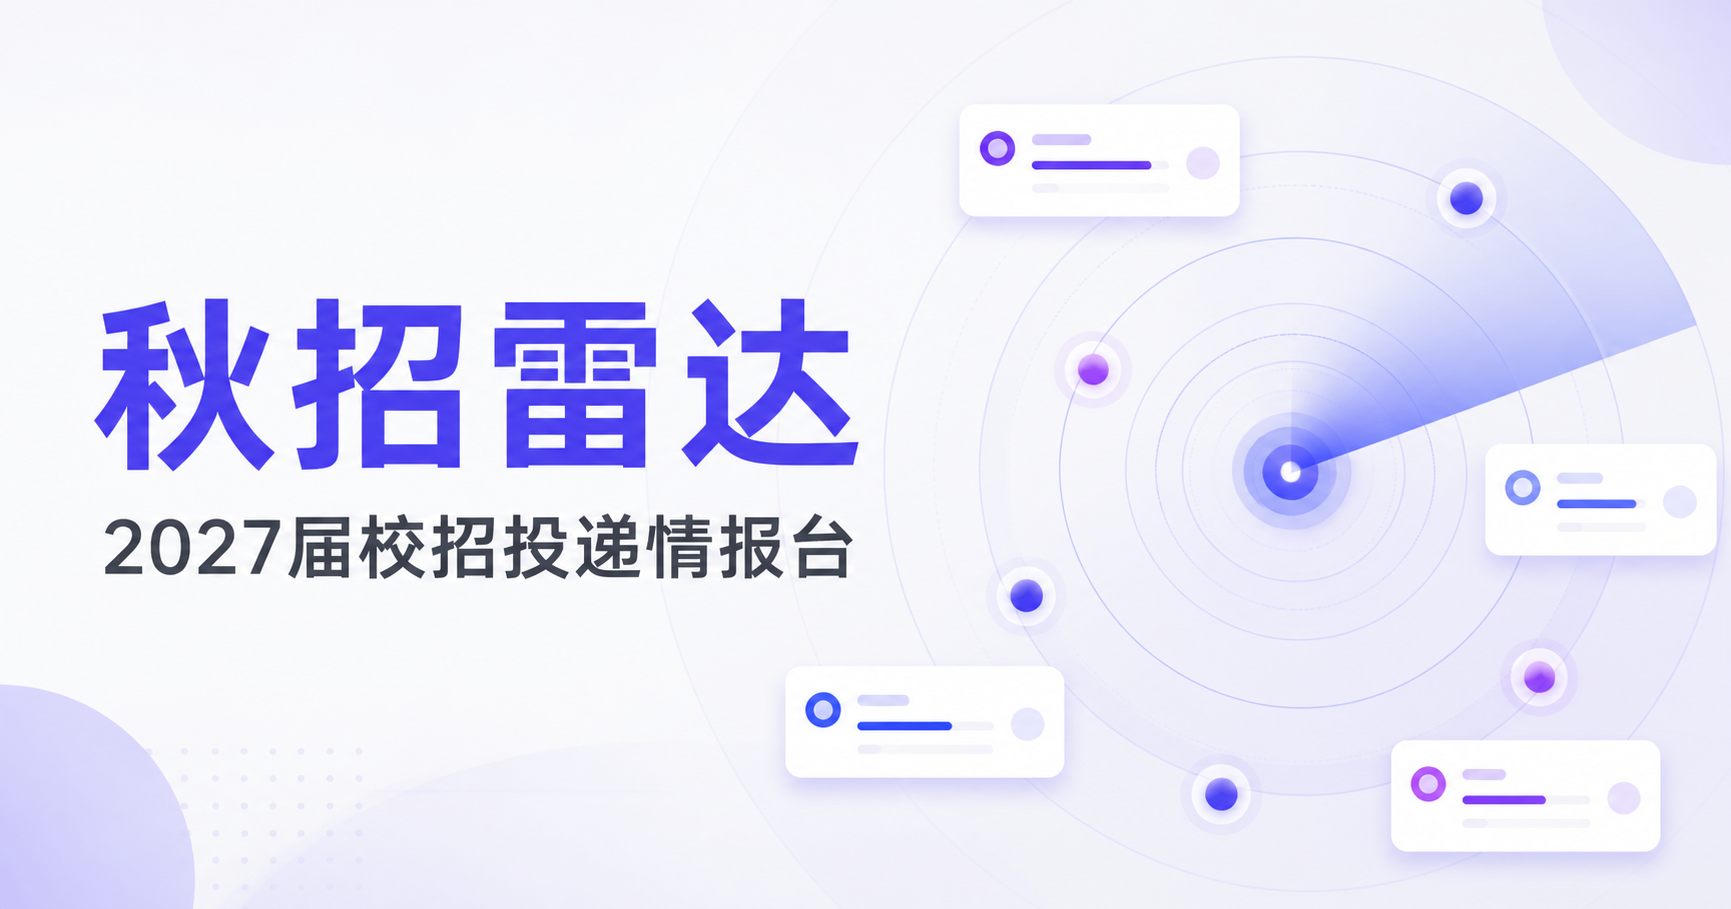
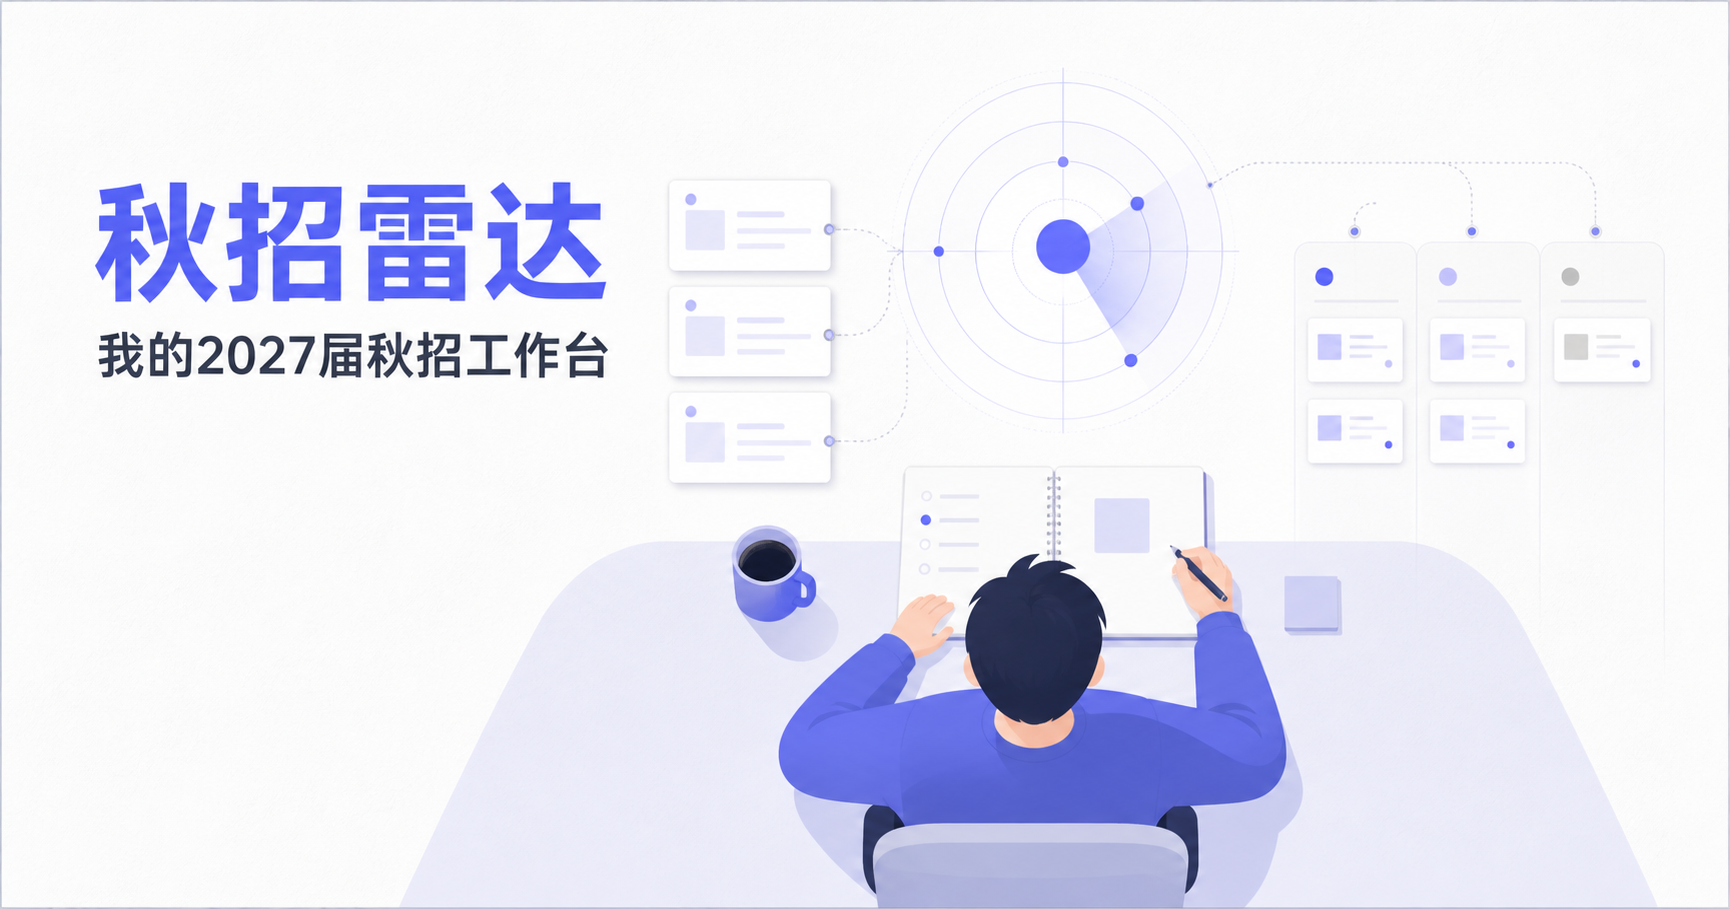
Refocus Job Radar as a personal workspace

diff --git a/app/page.tsx b/app/page.tsx
@@ -1,10 +1,10 @@
 import Link from 'next/link';
-import { chatGPTSignInPath, getChatGPTUser } from './chatgpt-auth';
+import { requireChatGPTUser } from './chatgpt-auth';
 import { companies, industryCounts } from '../data/companies';
 import { CompanyExplorer } from './company-explorer';
 
 export default async function Home() {
-  const user = await getChatGPTUser();
+  await requireChatGPTUser('/');
 
   return (
     <main className="min-h-screen bg-[#f6f7f9] text-[#19202e]">
@@ -16,15 +16,10 @@ export default async function Home() {
             <span className="rounded-full bg-[#eeedff] px-2 py-0.5 text-[10px] font-bold tracking-wider text-[#5c59e8]">2027</span>
           </Link>
           <nav className="hidden items-center gap-8 text-sm text-[#687083] md:flex">
-            <Link className="font-semibold text-[#242a36]" href="/">招聘情报</Link>
-            <Link className="transition hover:text-[#242a36]" href="/applications">我的投递</Link>
-            <Link className="transition hover:text-[#242a36]" href="/applications">提醒中心</Link>
+            <Link className="font-semibold text-[#242a36]" href="/">公司入口</Link>
+            <Link className="transition hover:text-[#242a36]" href="/applications">投递看板</Link>
           </nav>
-          {user ? (
-            <Link href="/applications" className="rounded-xl bg-[#f1f2f5] px-4 py-2 text-sm font-semibold">我的看板</Link>
-          ) : (
-            <a href={chatGPTSignInPath('/applications')} className="rounded-xl bg-[#242a36] px-4 py-2.5 text-sm font-semibold text-white transition hover:bg-[#11151d]">登录 / 注册</a>
-          )}
+          <Link href="/applications" className="rounded-xl bg-[#242a36] px-4 py-2.5 text-sm font-semibold text-white transition hover:bg-[#11151d]">打开投递看板</Link>
         </div>
       </header>
 
@@ -42,9 +37,12 @@ export default async function Home() {
               </div>
             </section>
             <section className="rounded-2xl bg-[#242a36] p-5 text-white shadow-[0_18px_35px_rgba(23,28,38,.12)]">
-              <p className="text-sm font-semibold">不错过开放时间</p>
-              <p className="mt-2 text-xs leading-5 text-white/60">关注目标公司，状态变化和临近截止时第一时间提醒。</p>
-              <a href={user ? '/applications' : chatGPTSignInPath('/applications')} className="mt-4 block rounded-xl bg-white px-3 py-2.5 text-center text-xs font-semibold text-[#242a36]">开启我的提醒</a>
+              <p className="text-sm font-semibold">我的使用顺序</p>
+              <ol className="mt-4 space-y-3 text-xs text-white/70">
+                <li className="flex gap-3"><span className="font-semibold text-[#9d9aff]">01</span><span>找到公司官方入口</span></li>
+                <li className="flex gap-3"><span className="font-semibold text-[#9d9aff]">02</span><span>在官网完成投递</span></li>
+                <li className="flex gap-3"><span className="font-semibold text-[#9d9aff]">03</span><span>回到看板记录进展</span></li>
+              </ol>
             </section>
           </div>
         </aside>
@@ -52,10 +50,10 @@ export default async function Home() {
         <div className="min-w-0">
           <section className="relative overflow-hidden rounded-[28px] bg-[#5c59e8] px-6 py-7 text-white shadow-[0_20px_45px_rgba(92,89,232,.18)] sm:px-8">
             <div className="relative z-10 max-w-2xl">
-              <p className="text-xs font-semibold tracking-[.18em] text-white/65">2027 届校招情报台</p>
-              <h1 className="mt-3 text-2xl font-bold tracking-tight sm:text-3xl">今天，别错过任何一家目标公司</h1>
-              <p className="mt-2 text-sm leading-6 text-white/70">聚合 120 家名企官方校招入口，持续核验开放状态与截止时间。</p>
-              <a href="#company-list" className="mt-6 inline-flex items-center gap-2 rounded-xl bg-white px-5 py-3 text-sm font-semibold text-[#4c49c9] shadow-lg">搜索 120 家公司 <span>↓</span></a>
+              <p className="text-xs font-semibold tracking-[.18em] text-white/65">我的 2027 届秋招工作台</p>
+              <h1 className="mt-3 text-2xl font-bold tracking-tight sm:text-3xl">把每一次投递，都放回同一张桌面</h1>
+              <p className="mt-2 text-sm leading-6 text-white/70">查官方入口、记投递日期、推面试阶段。先服务好我自己的秋招节奏。</p>
+              <a href="#company-list" className="mt-6 inline-flex items-center gap-2 rounded-xl bg-white px-5 py-3 text-sm font-semibold text-[#4c49c9] shadow-lg">开始查公司 <span>↓</span></a>
             </div>
             <div className="pointer-events-none absolute -right-16 -top-20 h-64 w-64 rounded-full border-[42px] border-white/10" />
             <div className="pointer-events-none absolute bottom-[-90px] right-40 h-44 w-44 rounded-full bg-[#7774f5]" />
@@ -75,7 +73,7 @@ export default async function Home() {
             ))}
           </section>
 
-          <CompanyExplorer companies={companies} signedIn={Boolean(user)} signInHref={chatGPTSignInPath('/')} />
+          <CompanyExplorer companies={companies} />
         </div>
       </div>
     </main>

diff --git a/app/company-explorer.tsx b/app/company-explorer.tsx
@@ -7,12 +7,11 @@ const PAGE_SIZE = 15;
 const industries: Array<'全部' | Industry> = ['全部', '互联网', '汽车', '芯片', '制造业', '咨询'];
 const statuses: Array<'全部状态' | RecruitmentStatus> = ['全部状态', '开放', '预热', '待开放', '待核验'];
 
-export function CompanyExplorer({ companies, signedIn, signInHref }: { companies: Company[]; signedIn: boolean; signInHref: string }) {
+export function CompanyExplorer({ companies }: { companies: Company[] }) {
   const [query, setQuery] = useState('');
   const [industry, setIndustry] = useState<(typeof industries)[number]>('全部');
   const [status, setStatus] = useState<(typeof statuses)[number]>('全部状态');
   const [page, setPage] = useState(1);
-  const [followed, setFollowed] = useState<string[]>([]);
 
   const filtered = useMemo(() => companies.filter((company) => {
     const matchesQuery = !query || company.name.toLowerCase().includes(query.trim().toLowerCase());
@@ -56,11 +55,6 @@ export function CompanyExplorer({ companies, signedIn, signInHref }: { companies
             <div><p className="text-xs text-[#a3a8b2]">截止：{company.deadline}</p><p className="mt-1 text-[11px] text-[#a3a8b2]">核验：{company.verifiedAt}</p></div>
             <div className="flex items-center gap-2 md:justify-end">
               <a href={company.url} target="_blank" rel="noreferrer" className="rounded-lg bg-[#242a36] px-3.5 py-2 text-xs font-semibold text-white transition hover:bg-[#11151d]">官方投递入口 ↗</a>
-              {signedIn ? (
-                <button onClick={() => setFollowed((items) => items.includes(company.id) ? items.filter((id) => id !== company.id) : [...items, company.id])} aria-label={`${followed.includes(company.id) ? '取消关注' : '关注'}${company.name}`} className={`grid h-8 w-8 place-items-center rounded-lg border text-sm ${followed.includes(company.id) ? 'border-[#7774f5] bg-[#eeedff] text-[#5c59e8]' : 'border-[#e5e7eb] text-[#8b92a0]'}`}>{followed.includes(company.id) ? '✓' : '＋'}</button>
-              ) : (
-                <a href={signInHref} aria-label={`登录后关注${company.name}`} className="grid h-8 w-8 place-items-center rounded-lg border border-[#e5e7eb] text-sm text-[#8b92a0]">＋</a>
-              )}
             </div>
           </article>
         ))}

diff --git a/app/layout.tsx b/app/layout.tsx
@@ -3,17 +3,17 @@ import './globals.css';
 
 export const metadata: Metadata = {
   metadataBase: new URL('https://qiuzhao-radar-2027.zehao0204.chatgpt.site'),
-  title: '秋招雷达｜2027届校招投递情报台',
-  description: '聚合120家名企官方校招入口，追踪开放状态，管理个人投递进度。',
+  title: '秋招雷达｜我的2027届秋招工作台',
+  description: '我的个人秋招工作台：查找120家名企官方入口，记录和推进投递进度。',
   openGraph: {
-    title: '秋招雷达｜2027届校招投递情报台',
-    description: '聚合120家名企官方校招入口，追踪开放状态，管理个人投递进度。',
+    title: '秋招雷达｜我的2027届秋招工作台',
+    description: '我的个人秋招工作台：查找120家名企官方入口，记录和推进投递进度。',
     images: [{ url: '/og.png', width: 1200, height: 630, alt: '秋招雷达' }],
   },
   twitter: {
     card: 'summary_large_image',
-    title: '秋招雷达｜2027届校招投递情报台',
-    description: '聚合120家名企官方校招入口，追踪开放状态，管理个人投递进度。',
+    title: '秋招雷达｜我的2027届秋招工作台',
+    description: '我的个人秋招工作台：查找120家名企官方入口，记录和推进投递进度。',
     images: ['/og.png'],
   },
 };

diff --git a/app/applications/page.tsx b/app/applications/page.tsx
@@ -12,7 +12,7 @@ export default async function ApplicationsPage() {
       <header className="border-b border-[#e8ebf0] bg-white">
         <div className="mx-auto flex h-16 max-w-[1440px] items-center justify-between px-5 lg:px-8">
           <Link href="/" className="flex items-center gap-3 font-semibold tracking-tight"><span className="grid h-9 w-9 place-items-center rounded-xl bg-[#5c59e8] text-lg text-white">秋</span><span className="text-lg">秋招雷达</span></Link>
-          <nav className="hidden items-center gap-8 text-sm text-[#687083] md:flex"><Link href="/">招聘情报</Link><span className="font-semibold text-[#242a36]">我的投递</span><span>提醒中心</span></nav>
+          <nav className="hidden items-center gap-8 text-sm text-[#687083] md:flex"><Link href="/">公司入口</Link><span className="font-semibold text-[#242a36]">投递看板</span></nav>
           <div className="flex items-center gap-3"><span className="hidden max-w-44 truncate text-xs text-[#7b8290] sm:block">{user.displayName}</span><a href={chatGPTSignOutPath('/')} className="rounded-lg border border-[#e1e4e9] px-3 py-2 text-xs text-[#656d7c]">退出</a></div>
         </div>
       </header>
